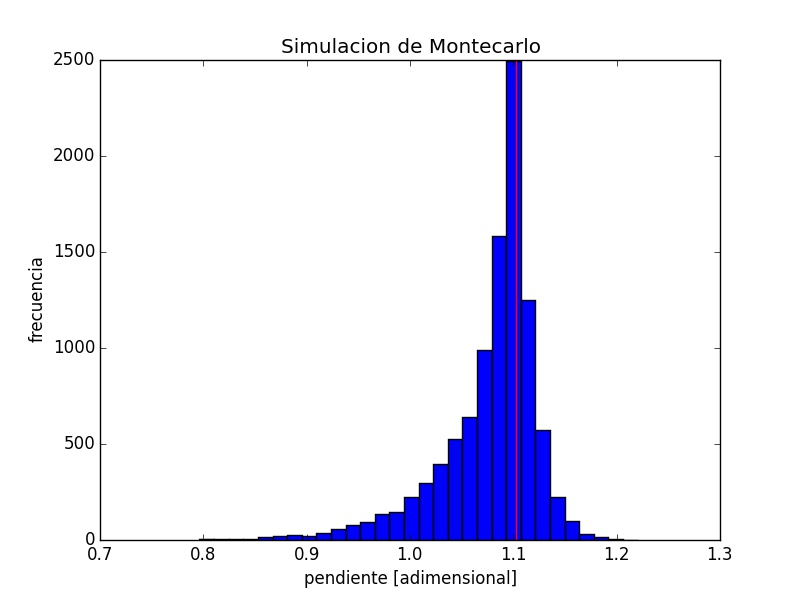
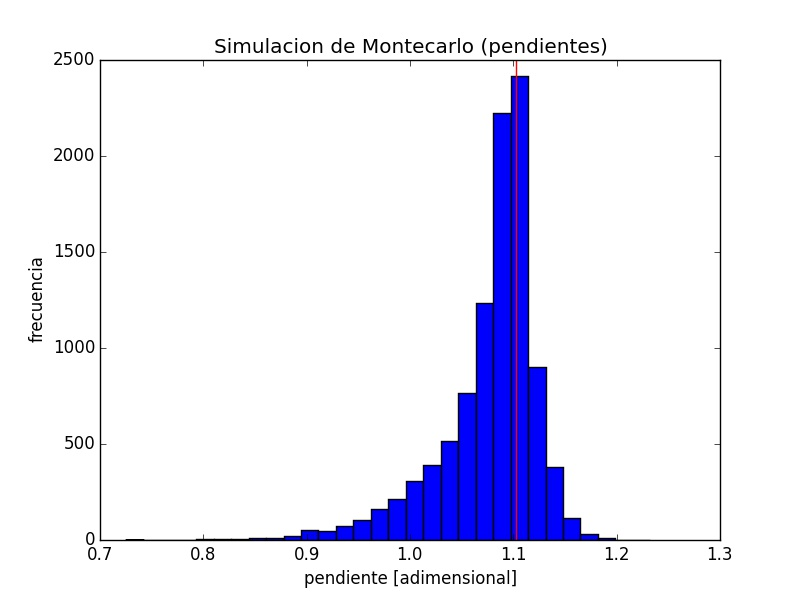
intervalo confianza para coef de posicion

Changed region(s): [[0.25, 0.06, 0.7812, 0.9]]

diff --git a/p3.py b/p3.py
@@ -22,7 +22,6 @@ def mostrar_datos(banda_i, error_i, banda_z, error_z, c):
     fig.set_ylabel("Flujo banda z [$10^{-6}Jy$]")
     plt.legend(loc=2)
     plt.savefig("bandas.jpg")
-    plt.show()
 
 
 def mc(banda_i, error_i, banda_z, error_z, c_0):
@@ -39,15 +38,32 @@ def mc(banda_i, error_i, banda_z, error_z, c_0):
     ax2, fig2 = plt.subplots()
     fig2.hist(pendiente, bins=30)
     fig2.axvline(c[0], color='r')
-    fig2.set_title("Simulacion de Montecarlo")
+    fig2.set_title("Simulacion de Montecarlo (pendientes)")
     fig2.set_xlabel("pendiente [adimensional]")
     fig2.set_ylabel("frecuencia")
     plt.savefig("mc.jpg")
+
+    ax3, fig3 = plt.subplots()
+    fig3.hist(pendiente, bins=30)
+    fig3.axvline(c[0], color='r')
+    fig3.set_title("Simulacion de Montecarlo (coef de posicion)")
+    fig3.set_xlabel("coef de posicion [adimensional]")
+    fig3.set_ylabel("frecuencia")
+    plt.show()
+    plt.savefig("mc_2.jpg")
+
     pendiente = np.sort(pendiente)
+    cte = np.sort(cte)
     limite_bajo_1 = pendiente[int(Nmc * 0.025)]
     limite_alto_1 = pendiente[int(Nmc * 0.975)]
-    print "El intervalo de confianza al 95% es: [{}:{}]".format(limite_bajo_1,
-                                                                limite_alto_1)
+    limite_bajo_2 = cte[int(Nmc * 0.025)]
+    limite_alto_2 = cte[int(Nmc * 0.975)]
+    print """El intervalo de confianza al
+             95% para la pendiente es: [{}:{}]""".format(limite_bajo_1,
+                                                         limite_alto_1)
+    print """El intervalo de confianza al
+             95% para el coef de posicion es: [{}:{}]""".format(limite_bajo_2,
+                                                                limite_alto_2)
 
 
 data = np.loadtxt("data/DR9Q.dat", usecols=(80, 81, 82, 83))
